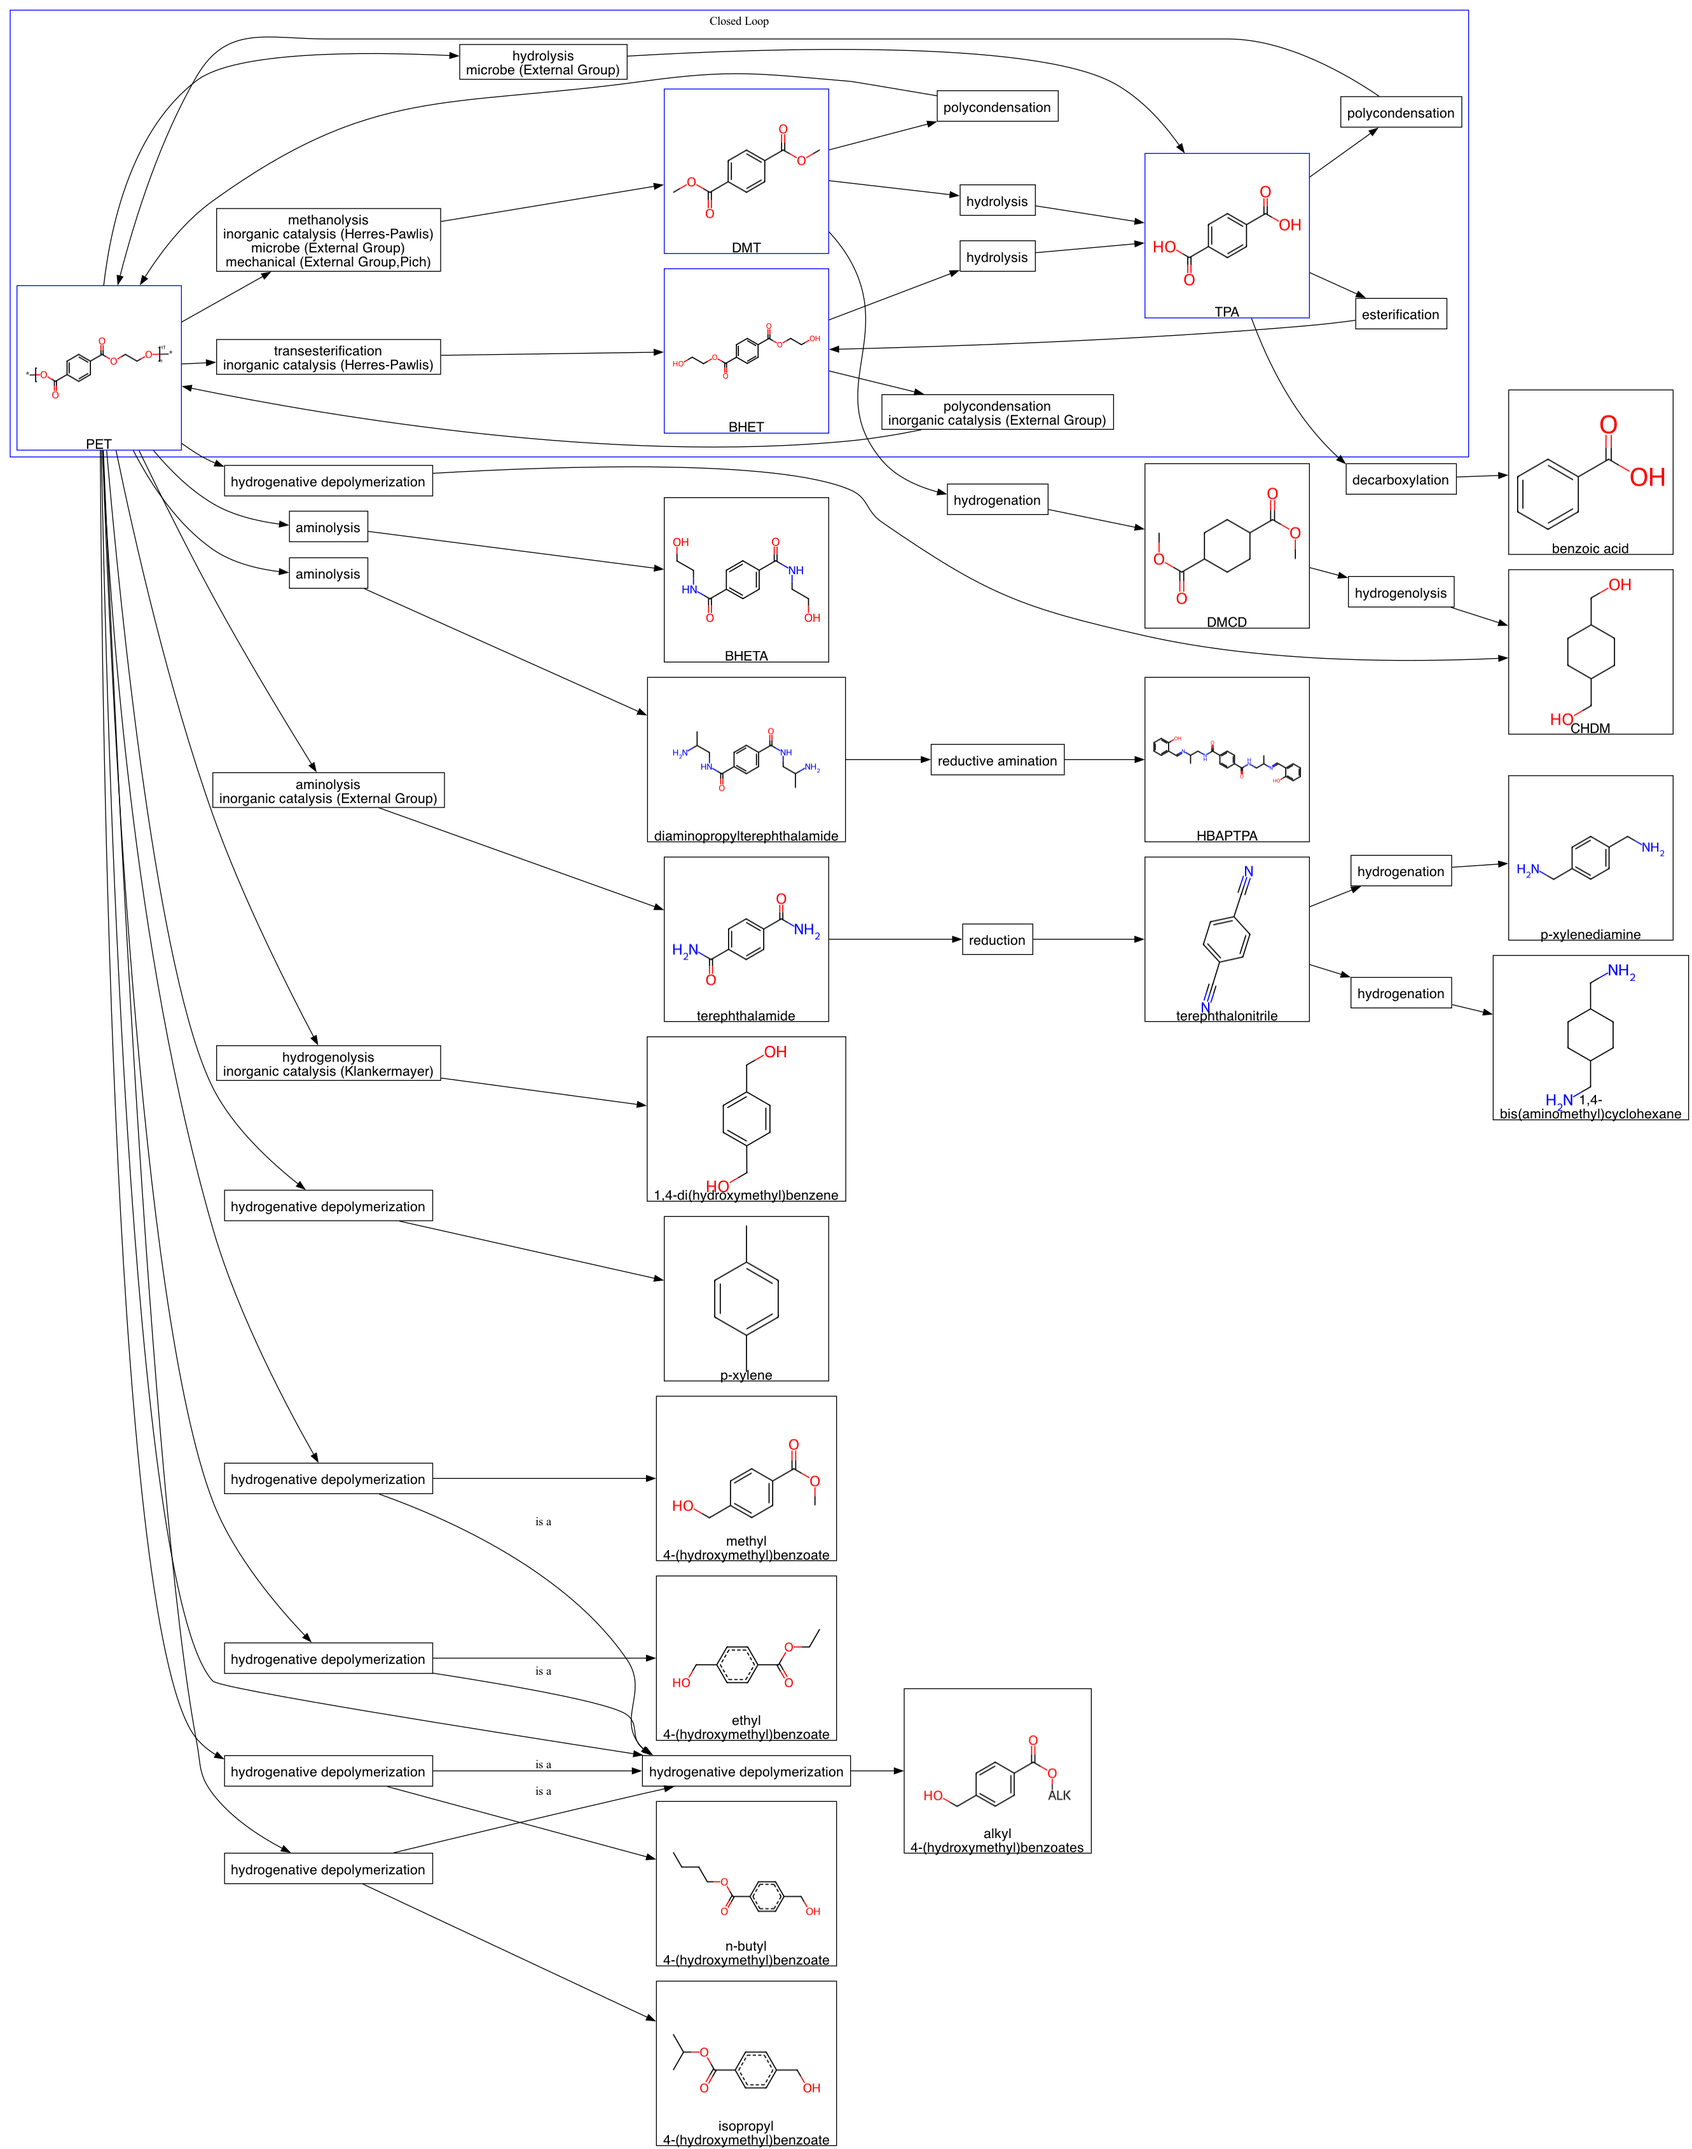
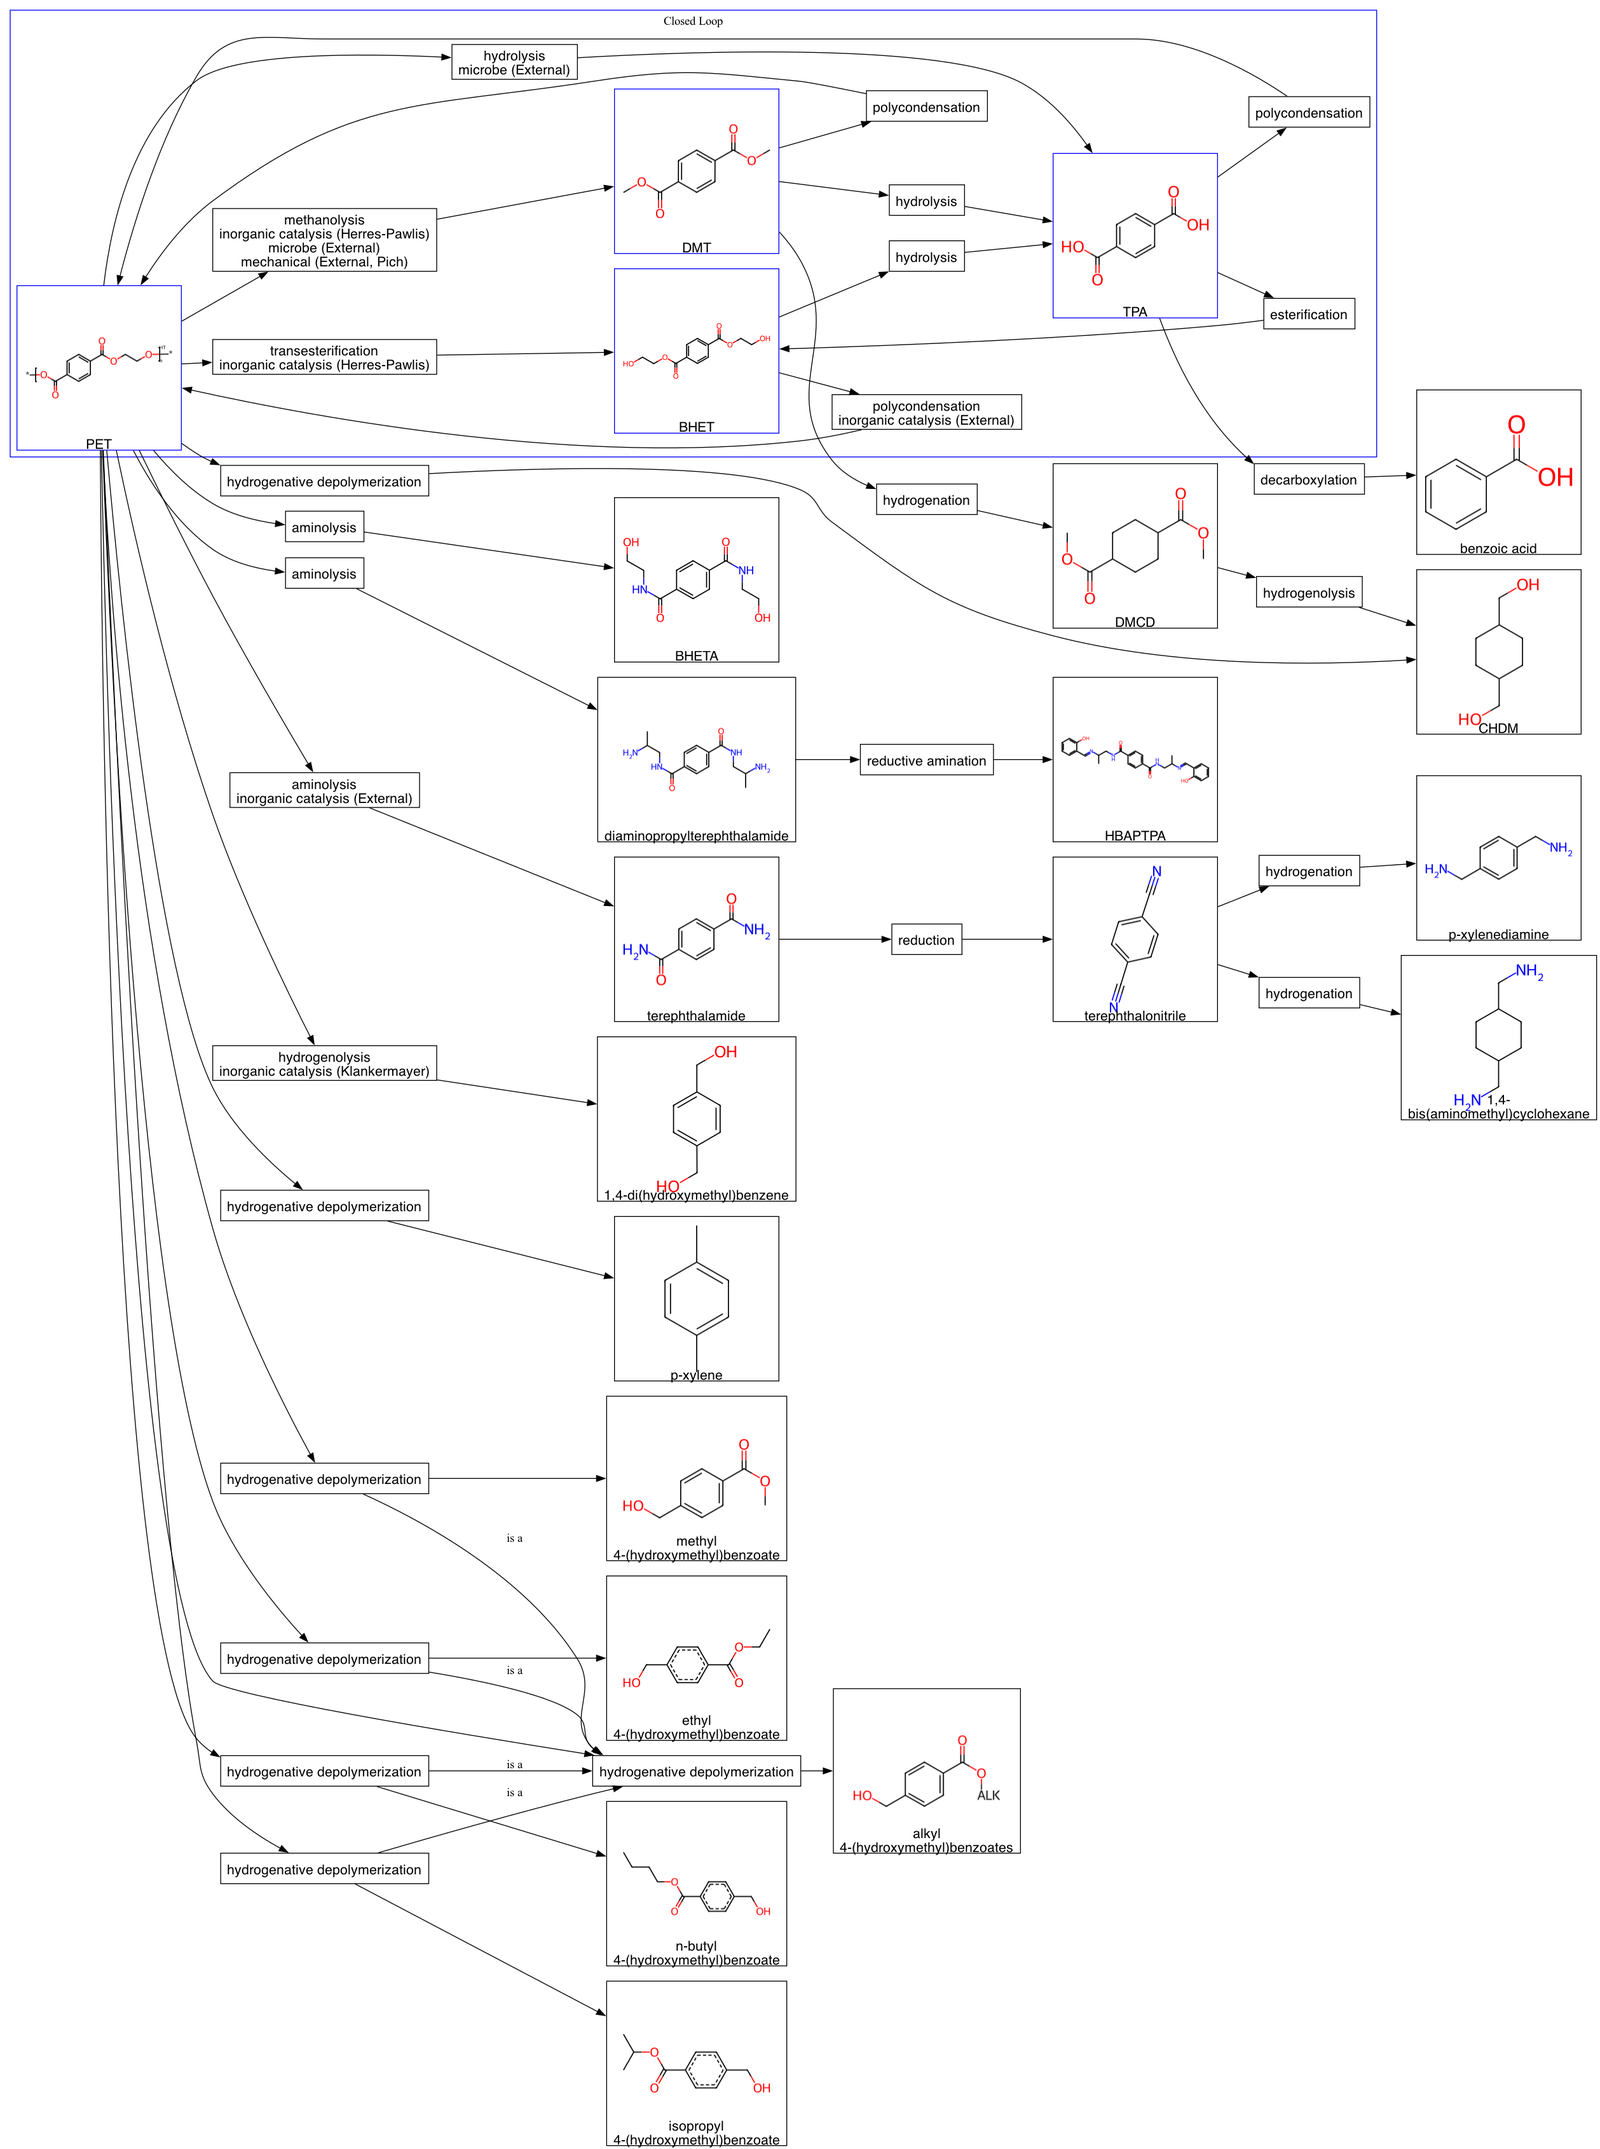
Add formatting scripts

diff --git a/draw.py b/draw.py
@@ -85,7 +85,7 @@ def draw(
         ["reaction", "type", "group"]
     ].values:
         reaction_to_group_names[reaction][reaction_type].add(
-            lab_id_to_name[group] if pd.notna(group) else "External Group"
+            lab_id_to_name[group] if pd.notna(group) and group else "External"
         )
 
     graph = pgv.AGraph(directed=True)
@@ -170,7 +170,7 @@ def draw(
             label_parts.append(reaction_type)
         if type_to_groups := reaction_to_group_names.get(reaction_id):
             for rtype, groups in type_to_groups.items():
-                groups_text = ",".join(sorted(groups))
+                groups_text = ", ".join(sorted(groups))
                 label_parts.append(f"{rtype} ({groups_text})")
 
         label = "\n".join(label_parts)

diff --git a/lint.py b/lint.py
@@ -1,0 +1,21 @@
+# /// script
+# requires-python = ">=3.14"
+# dependencies = [
+#     "pandas>=3.0.0",
+# ]
+# ///
+from pathlib import Path
+import pandas as pd
+
+HERE = Path(__file__).parent.resolve()
+CURATION = HERE.joinpath("curation")
+
+
+def main():
+    for path in CURATION.glob("*.tsv"):
+        df = pd.read_csv(path, sep="\t")
+        df.to_csv(path, index=False, sep="\t")
+
+
+if __name__ == "__main__":
+    main()
